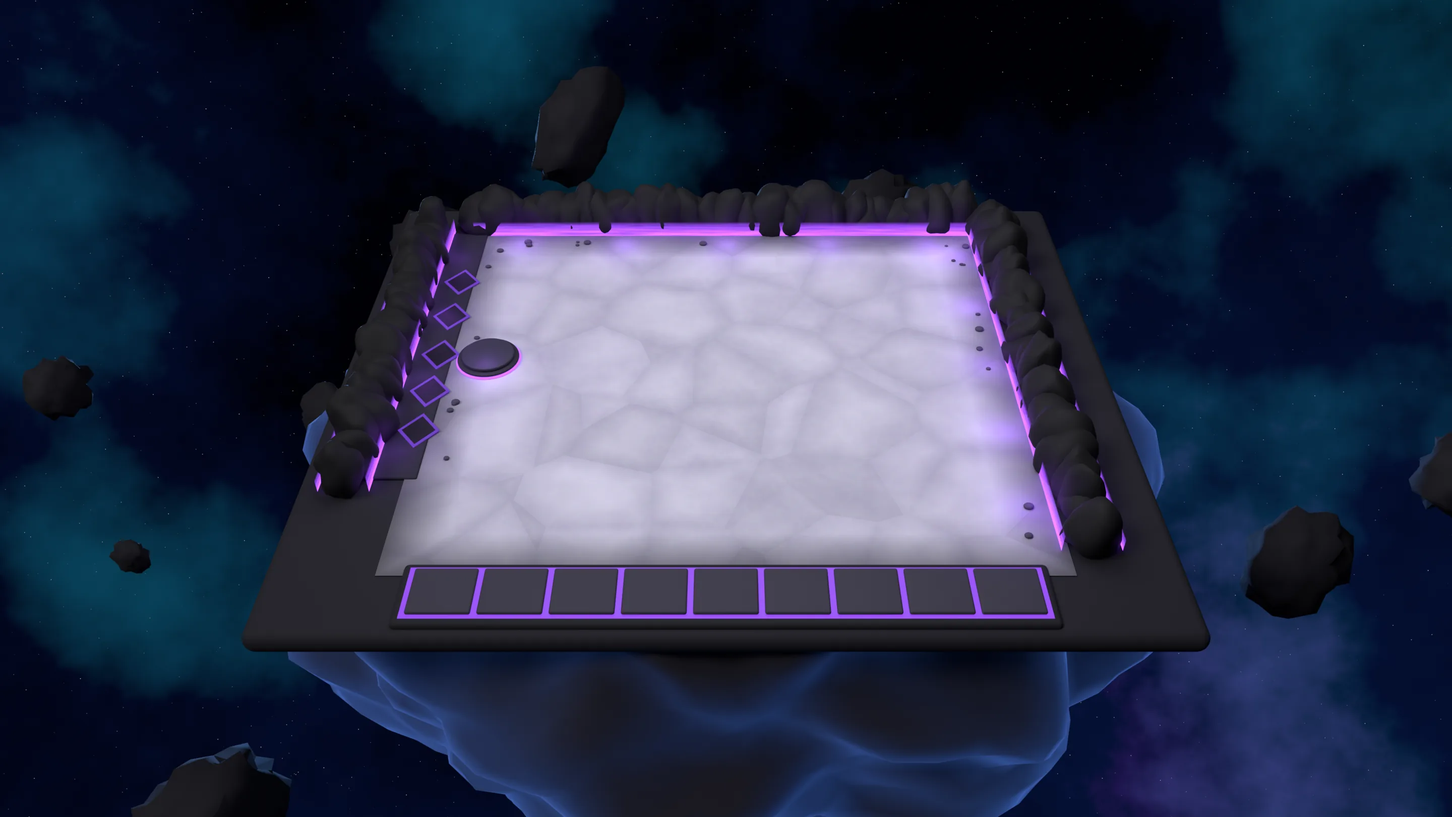
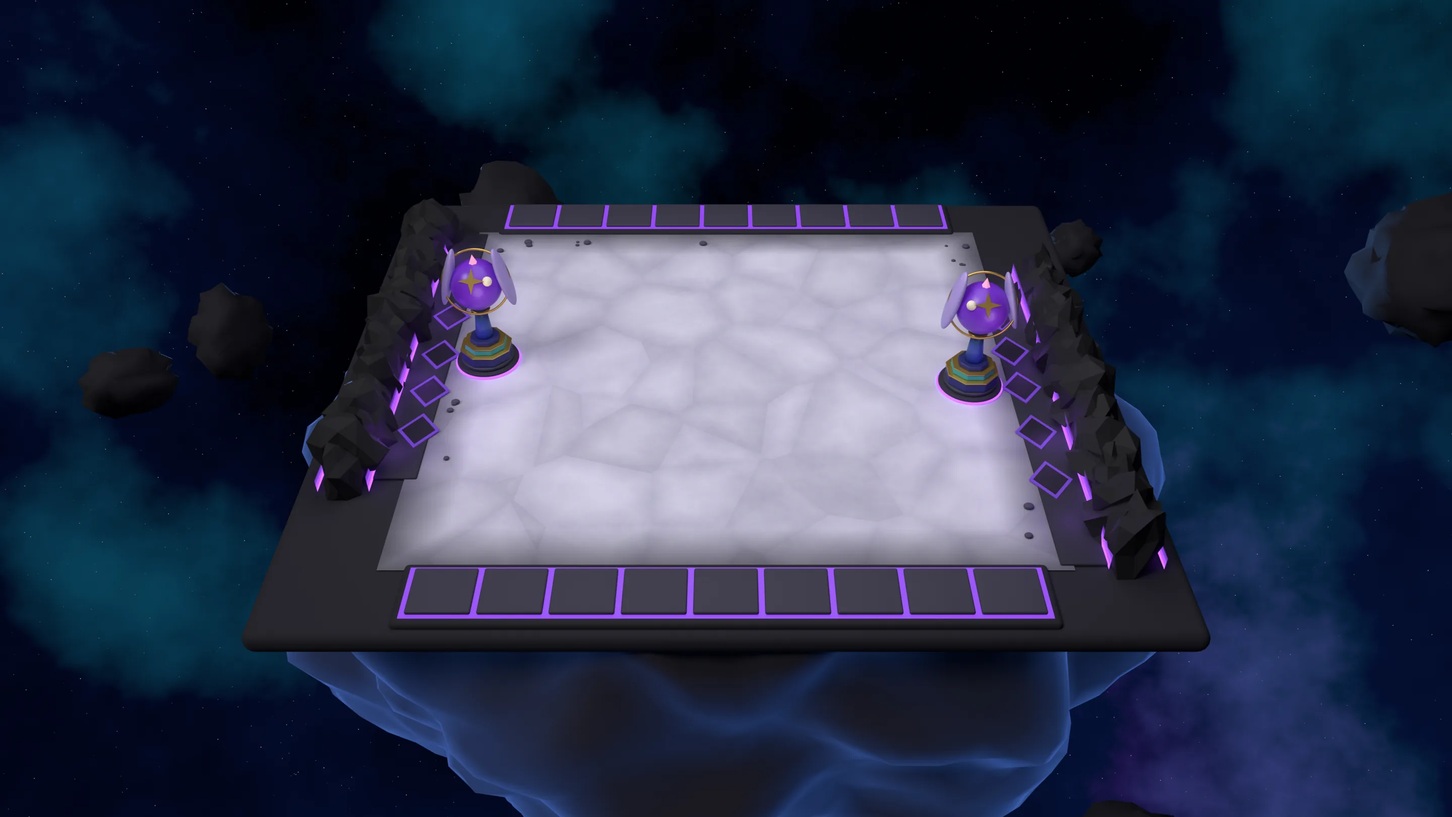
Coliseo en espejo: banca y rombos del rival (con su banca y sus cristales de intereses en combate), trofeos modelados en la imagen y piedras toscas

diff --git a/public/game.js b/public/game.js
@@ -1664,9 +1664,13 @@ function randomCode(){ const a='abcdefghjkmnpqrstuvwxyz23456789'; let s=''; for(
 function myPeerOf(room){ const me=room.peers().find(p=>p.sameTab); return me?me.peer:''; }
 function packInst(u){ return [u.uid,u.defId,u.star,u.items,R0(u.stk.hp),R0(u.stk.ad),u.kills,u.goldGen||0,R0(u.stk.ap||0),u.mwR||0,u.tg||0]; }
 function unpackInst(a){ if(!Array.isArray(a)||!DEF[a[1]]) return null; return {uid:a[0],defId:a[1],baseId:DEF[a[1]].evoOf||a[1],star:clamp(a[2]|0,1,3),items:(a[3]||[]).filter(i=>ITEMS[i]),stk:{hp:+a[4]||0,ad:+a[5]||0,ap:+a[8]||0},kills:+a[6]||0,mwR:+a[9]||0,goldGen:Math.max(0,+a[7]||0),tg:Array.isArray(a[10])?a[10].filter(i=>ITEMS[i]).slice(0,3):undefined}; }
+// Cristales de intereses de un jugador (1 por cada 10 de oro, hasta su máximo y 5): el propio se calcula; el de los demás llega en pub.pl[i][18]
+const interestOf=p=>p.mods&&p!==G.me&&p.icn!=null&&NET.mode==='client'?p.icn:Math.min(p.mods?p.mods.maxInterest:5,5,Math.floor((p.gold||0)/10));
+// Rival del combate que se está viendo (null en salvajes): su banca y sus cristales se ven en su lado del campo
+function combatOpp(){ const me=G.me, v=G.view; if(G.phase!=='combat'||!G.round||G.round.type==='pve') return null; const o=v?v.opp:G.players.find(p=>p!==me&&G.myOpp&&G.myOpp.replace(' (fantasma)','')===p.name); return o&&o!==me?o:null; }
 function makePub(){
  return {ph:G.phase,ri:G.roundIdx,tl:isFinite(G.timer)?Math.max(0,Math.ceil(G.timer)):-1,sp:G.speed,at:G.augTiers,ov:G.over?1:0,dif:G.diff,
-   pl:G.players.map(p=>[p.id,p.name,p.emoji,R0(p.hp),p.level,p.streak,p.alive?1:0,p.place,p.peer||'',0,p.ready?1:0,boardUnits(p).length,p.tr||'',p.lastUp||0,p.tac,(p.tacForm||['','']).join(','),p.tp||0,p.tn||0]),
+   pl:G.players.map(p=>[p.id,p.name,p.emoji,R0(p.hp),p.level,p.streak,p.alive?1:0,p.place,p.peer||'',0,p.ready?1:0,boardUnits(p).length,p.tr||'',p.lastUp||0,p.tac,(p.tacForm||['','']).join(','),p.tp||0,p.tn||0,interestOf(p)]),
    // Tableros y banquillos de todos, para poder mirarlos fuera del combate
    bd:G.players.map(p=>[Object.entries(p.board).map(([k,u])=>[k,u.defId,u.star,u.items]),p.bench.map(u=>u?[u.defId,u.star,u.items]:0),p.items.slice(0,MAX_ITEMS_BENCH),p.augments])};
 }
@@ -1816,9 +1820,11 @@ function applyPub(d){
  G.timer=d.tl>=0?d.tl:Infinity; G.speed=[1,2,4].includes(d.sp)?d.sp:1; if(Array.isArray(d.at)) G.augTiers=d.at; G.diff=d.dif||'normal';
  const list=[];
  for(const r of d.pl.slice(0,8)){
-   const [id,name,emoji,hp,level,streak,alive,place,peer,bot,ready,bn,tr,up,tac,tf,tp,tn]=r;
+   const [id,name,emoji,hp,level,streak,alive,place,peer,bot,ready,bn,tr,up,tac,tf,tp,tn,icn]=r;
+   if(Number.isFinite(+icn)) r.icn=clamp(+icn|0,0,5);
    const p=peer&&peer===NET.myPeer?G.me:(G.players.find(x=>x.id===id&&x!==G.me)||makePlayer(id,'',!!bot,''));
    Object.assign(p,{id,name:String(name).slice(0,20),emoji:String(emoji).slice(0,4),tr:TRAINER_BY[tr]?tr:'',hp:+hp,level:+level,streak:+streak,alive:!!alive,place:+place,peer:String(peer||''),isBot:!!bot,ready:!!ready,boardN:+bn||0,lastUp:Array.isArray(up)&&up.length===3?up.map(Number):null,tac:TACS[tac]?tac:p.tac,tacForm:String(tf||',').split(',').slice(0,2).map(k=>DEF[k]?k:''),tp:Array.isArray(tp)&&tp.length===3&&tp.every(Number.isFinite)?tp:null,tn:(+tn|0)%1000});
+   if(r.icn!=null&&p!==G.me) p.icn=r.icn;
    const bd=Array.isArray(d.bd)?d.bd[list.length]:null;
    if(p!==G.me&&Array.isArray(bd)){ unpackBoard(p,bd); if(Array.isArray(bd[2])) p.items=bd[2].filter(k=>ITEMS[k]).slice(0,MAX_ITEMS_BENCH); if(Array.isArray(bd[3])) p.augments=bd[3].filter(a=>AUG_BY[a]); }
    list.push(p);
@@ -2811,6 +2817,8 @@ function sceneActors(){
  else { tacOthers=[]; const C=G.carousel; for(const p of C.order){ const a=C.av[p.id]; if(!a||a.x===null) continue; const [vx,vy]=carPos(p.id,...carV(a.x,a.y)); A.push({key:'tac:'+p.id,tac:true,hold:.45,dex:tacDex(p),star:tacStage(p)+1,x:vx,y:vy+geo.R*.35,face:Math.PI,ring:p===me?'#4c8dff':a.rel&&!a.done?'#3fd27a':'#8a93ad',scale:.62,alpha:!a.rel&&!a.done?.55:1,hud:{}}); } }
  const benchOf=inCombat||inCar?me:viewedPlayer();
  (inCar?[]:benchOf.bench).forEach((u,i)=>{ if(!u||(drag&&drag.moved&&drag.u===u)) return; const [x,y]=benchXY(i), d=DEF[u.defId]; A.push({key:u,u,loc:{i},star:d.anvil?0:u.star,still:true,dex:dexOf(d,u.star),x,y,face:0,ring:COST_HEX[d.cost-1],sel:selected===u,scale:unitScale(d,u.star)*.9,hud:{items:u.items,star:d.anvil?0:u.star}}); });
+ // En combate, la banca del rival en sus losas (reflejo de la tuya respecto al centro del campo): se ve qué tiene guardado
+ const opp=inCombat&&combatOpp(); if(opp){ const cy2=cellXY(0,0)[1]+cellXY(0,7)[1]; (opp.bench||[]).forEach((u,i)=>{ if(!u||!DEF[u.defId]) return; const [x,y]=benchXY(i), d=DEF[u.defId]; A.push({key:'ob'+opp.id+':'+i+':'+u.defId+':'+u.star,still:true,dex:dexOf(d,u.star),x:geo.W-x,y:cy2-y,face:0,ring:COST_HEX[d.cost-1],scale:unitScale(d,u.star)*.9,hud:{items:u.items,star:d.anvil?0:u.star}}); }); }
  if(drag&&drag.moved){ const d=DEF[drag.u.defId]; A.push({key:drag.u,dex:dexOf(d,drag.u.star),x:drag.x,y:drag.y,face:drag.loc&&drag.loc.i!==undefined?0:Math.PI,drag:true,alpha:.9,ring:'#ffffff',scale:unitScale(d,drag.u.star),hud:{star:drag.u.star}}); }
  return A;
 }
@@ -2829,7 +2837,7 @@ function draw(){
  const pads=inCar?(()=>{ const {cx,cy,rr}=carGeo(), C=G.carousel; return C.order.map((p,idx)=>{ const a=C.av[p.id]||{}, an=carAng(idx,C.order.length), [px,py]=carV(cx+Math.cos(an)*rr*1.12,cy+Math.sin(an)*rr*1.12); return {id:p.id,x:px,y:py+geo.R*.35,dim:!!(a.rel||a.done)}; }); })():[];
  const links=[]; if(sceneLinks.length>1){ const rest=sceneLinks.slice(1); let cur=sceneLinks[0]; while(rest.length){ let bi=0,bd=1e9; rest.forEach((q,i)=>{ const d=Math.hypot(q[0]-cur[0],q[1]-cur[1]); if(d<bd){bd=d;bi=i;} }); const nx=rest.splice(bi,1)[0]; links.push([cur[0],cur[1],nx[0],nx[1]]); cur=nx; } }
  B3.render({arena:playing?bgKind():'glade',car:inCar?carGeo():null,pads,links,actors:A,bubbles,orbs:playing?orbList():[],totem:playing&&G.phase!=='carousel'?{x:geo.ox-geo.R*.35,y:cellXY(0,4)[1]-geo.R*.75}:null,
-   floorCount:playing&&!inCar?floorCountSpec():null,pandora:playing&&!inCar&&tP&&tP.mods&&tP.mods.pandoraBench?[BENCH-3,BENCH-2,BENCH-1]:null,interest:playing&&G.phase!=='carousel'?{x:geo.ox-geo.R*.55,y:cellXY(0,7)[1]-geo.R*.2,dy:-geo.R*.85,n:Math.min(tP.mods.maxInterest,5,Math.floor(tP.gold/10))}:null,fx:inCombat?viewCombat().fx:[],cellPx:vXY,unitPx:unitXY,cells:{drop:dragBoard,hover:cell&&cell[1]>=4?cell[1]*7+cell[0]:-1},benchHover:bh});
+   floorCount:playing&&!inCar?floorCountSpec():null,pandora:playing&&!inCar&&tP&&tP.mods&&tP.mods.pandoraBench?[BENCH-3,BENCH-2,BENCH-1]:null,interest:playing&&G.phase!=='carousel'?{x:geo.ox-geo.R*.55,y:cellXY(0,7)[1]-geo.R*.2,dy:-geo.R*.85,n2:(()=>{ const o=inCombat&&combatOpp(); return o?interestOf(o):0; })(),n:Math.min(tP.mods.maxInterest,5,Math.floor(tP.gold/10))}:null,fx:inCombat?viewCombat().fx:[],cellPx:vXY,unitPx:unitXY,cells:{drop:dragBoard,hover:cell&&cell[1]>=4?cell[1]*7+cell[0]:-1},benchHover:bh});
  hudActors=A; hudItems=[];
  if(!playing) return;
  if(inCar) drawCarouselHud(); else { drawBoardTrainers(); drawTotemIcons(); }

diff --git a/public/board3d.js b/public/board3d.js
@@ -162,7 +162,7 @@ const flatSeen=new Set(); function flatFail(e){ const k=String(e&&e.message||e);
 // «coliseo» es la arena de baldosas con piedras negras y brillo morado renderizada en Blender con la cámara del juego (arena-coliseo.py de la skill de recursos)
 const FLAT_SETS={
  rio:{dir:'arena/',w:1428,h:1080,back:[[424,272],[969,273]],bench:[353,1034.8,585],holes:[[397,315],[387,347],[377,382],[367,415],[357,450]],totem:{row:3,dx:1.3,dy:.25},bg:'radial-gradient(circle at 50% 40%,#5a5d63,#2e3036)'},
- coliseo:{dir:'arena/coliseo/',w:2880,h:1620,back:[[968,472.4],[1912,472.4]],bench:[805.6,2074.4,1168.8],holes:[[917,562.1],[896.2,630.2],[874.7,705.8],[853.1,778.2],[831,856.2]],totem:{row:3,dx:1.3,dy:.25},totemY:.22,bg:'#000'},
+ coliseo:{dir:'arena/coliseo/',w:2880,h:1620,back:[[968,472.4],[1912,472.4]],bench:[805.6,2074.4,1168.8],holes:[[917,562.1],[896.2,630.2],[874.7,705.8],[853.1,778.2],[831,856.2]],holes2:[[2083.3,953.9],[2054.2,859.3],[2025.2,770.9],[2002.7,699.1],[1980.9,632.6]],totem:{row:3,dx:1.3,dy:.25},totemY:.22,totemBaked:true,bg:'#000'},
 };
 const FLAT_IMG=FLAT_SETS.coliseo; // totem: junto al borde izquierdo del tablero, a la altura de la fila `row`, `dx` radios de casilla hacia fuera y `dy` hacia abajo
 // Carrusel: plataforma Poké Ball sobre suelo rojo, renderizada en Blender con la misma perspectiva que la cámara del carrusel (carrusel-pokeball.py de la skill de recursos);
@@ -919,18 +919,19 @@ function buildProps(){
 }
 function stepProps(F,now){
  if(!totem) buildProps();
- const T=F.totem; totem.visible=!!T; if(T){ const G=board.G, tt=FLAT_IMG.totem, p=W3(G.ox+G.hw*(.5*(tt.row&1))+G.hw/2-tt.dx*G.R,G.pad+G.R+tt.row*1.5*G.R+tt.dy*G.R); totem.position.set(p.x,FLAT_IMG.totemY||0,p.z); } // la ball se queda quieta
+ const T=F.totem; totem.visible=!!T; if(T){ const G=board.G, tt=FLAT_IMG.totem, p=W3(G.ox+G.hw*(.5*(tt.row&1))+G.hw/2-tt.dx*G.R,G.pad+G.R+tt.row*1.5*G.R+tt.dy*G.R); totem.position.set(p.x,FLAT_IMG.totemY||0,p.z); totem.children[0].visible=!FLAT_IMG.totemBaked; } // con el trofeo dentro de la imagen, el sprite no se pinta (pero su posición sigue dando dónde van los aumentos) // la ball se queda quieta
  const I=F.interest, flat=!!flatH;
  if(!I||!flat){ for(const c of crystals){ c.visible=false; if(c.userData.v!=null){ c.userData.v=0; c.userData.want=false; c.userData.from=null; } } return; } // carrusel y menú: sin intereses
  // Solo se ven los cristales ganados: cada uno brota de su hueco (sube, crece y se enciende en 0,7 s) al alcanzar ese interés y se hunde si se pierde
  crystals.forEach((c,j)=>{ const slot=j<5; const U=c.userData; if(U.v==null){ U.v=0; U.want=false; }
    // se encienden desde el banquillo hacia el fondo
-   const i=4-j, want=slot&&i<I.n;
+   // los 5 primeros son los tuyos (rombos de la izquierda); los otros 5, los del rival en combate (rombos de la derecha, FLAT_IMG.holes2)
+   const h2=!slot&&FLAT_IMG.holes2, i=slot?4-j:4-(j-5), want=slot?i<I.n:!!h2&&i<(I.n2||0);
    if(want!==U.want){ U.want=want; U.t0=now; U.from=U.v; }
    const k=Math.min(1,(now-(U.t0||0))/(want?.7:.35)); U.v=U.from==null?(want?1:0):U.from+((want?1:0)-U.from)*k;
    c.visible=U.v>0; if(!c.visible) return;
    const e=want?1-Math.pow(1-U.v,3):U.v*U.v, bob=0, rise=(1-e)*.5; // quietos una vez aparecidos: solo se anima la aparición (ease-out al salir, ease-in al hundirse)
-   { const w=flatWorld(FLAT_IMG.holes[j],0); c.position.set(w.x,.52+bob-rise,w.z); } // la punta de abajo (0,5 por debajo del centro) queda en el hueco pintado
+   { const w=flatWorld(slot?FLAT_IMG.holes[j]:FLAT_IMG.holes2[j-5],0); c.position.set(w.x,.52+bob-rise,w.z); } // la punta de abajo (0,5 por debajo del centro) queda en el hueco pintado
    const m=c.userData.m, flash=want&&U.v<1?1+Math.sin(U.v*Math.PI)*.9:1; c.scale.setScalar(.2+.8*e);
    m.material.color.set('#9fe8ff'); m.material.emissive.set('#2aa8ff'); m.material.emissiveIntensity=1*flash; m.material.opacity=.95*e; m.rotation.y=.6+(1-e)*4; c.userData.h.visible=true; c.userData.h.scale.setScalar(1.3*(.6+.4*e)*flash); }); // el rombo gira solo mientras brota y luego se queda quieto
 }

diff --git a/tests/e2e/partida.spec.js b/tests/e2e/partida.spec.js
@@ -256,6 +256,19 @@ test('ficha con el retrato de su forma y recetas de objetos con clic derecho', a
   await page.mouse.click(800, 300); await expect(page.locator('#recipeBox')).toHaveCount(0);
 });
 
+// Arena espejo: en un combate PvP la banca del rival se ve en sus losas y sus cristales de intereses se encienden en sus rombos (misma regla: 1 por cada 10 de oro)
+test('en combate se ven la banca y los cristales de intereses del rival', async ({ page }) => {
+  await page.evaluate(() => { G.me.gold = 55; renderUI(); });
+  await expect.poll(() => page.evaluate(() => B3.flatInfo.crys.length), { timeout: 10_000 }).toBe(5); // en planificación, solo los tuyos
+  await jumpToRound(page, 5); // 2-3: PvP
+  await page.evaluate(() => { closeModal(); G.timer = .1; });
+  await expect.poll(() => page.evaluate(() => G.phase), { timeout: 20_000 }).toBe('combat');
+  const r = await page.evaluate(async () => { const o = combatOpp(); o.gold = 38; o.bench = Array(BENCH).fill(null); o.bench[0] = makeInst('gastly'); o.bench[8] = makeInst('meowth'); G.me.gold = 55;
+    await new Promise(r => setTimeout(r, 1500)); return { cris: B3.flatInfo.crys.length, banca: sceneActors().filter(a => String(a.key).startsWith('ob' + o.id + ':')).map(a => a.x > geo.W / 2 ? 'der' : 'izq') }; });
+  expect(r.cris, 'tus 5 cristales y 3 del rival (38 de oro)').toBe(8);
+  expect(r.banca, 'la casilla 0 del rival queda a su izquierda (a tu derecha) y la 8 al otro lado').toEqual(['der', 'izq']);
+});
+
 // El carrusel espera 8 s antes de soltar a la primera pareja: tiempo para ver todos los Pokémon y objetos
 test('carrusel: la primera pareja sale a los 8 s', async ({ page }) => {
   await jumpToRound(page, 6); await expect(page.locator('#stage')).toContainText('Carrusel');

diff --git a/test/smoke.js b/test/smoke.js
@@ -251,6 +251,8 @@ ready.then(() => server.listen(0, async () => {
       const tn = nick => lastPub.pl.find(p => p[1] === nick)[17];
       assert.strictEqual(tn('Beto'), 1, 'la burla de Charmander llega a todos (y la segunda seguida se ignora)');
       assert.strictEqual(tn('Ana'), 0, 'quien no lleva Charmander no puede burlarse');
+      // Cristales de intereses de cada jugador (para encender los rombos del rival en combate): un entero de 0 a 5 en pub.pl[i][18], nunca el oro exacto
+      assert(lastPub.pl.every(p => Number.isInteger(p[18]) && p[18] >= 0 && p[18] <= 5 && p.length === 19), 'pub.pl[i][18] trae los cristales de intereses (0-5) y nada más');
       // sin partida a medias no se puede «volver»: el usuario A tiene su asiento conectado, así que rejoin le cede el asiento solo a una ventana nueva (no se prueba aquí)
     }
     // Minileyenda de B en el tablero de A: entradas inválidas (jugador inexistente, tipos raros, fuera de rango) y luego una válida

diff --git a/.claude/skills/pokemon-data-asset-pipeline/scripts/arena-coliseo.py b/.claude/skills/pokemon-data-asset-pipeline/scripts/arena-coliseo.py
@@ -20,6 +20,8 @@ FX0, FX1, FZ0, FZ1 = -6.995, 6.995, -7.285, 5.374
 BENCH_Z, BENCH_X, BENCH_DX, TOP = 6.4545, -5.7735, 1.4434, .2
 HOLES = [(-7.343, -4.915), (-7.342, -3.277), (-7.319, -1.599), (-7.312, -.117), (-7.292, 1.36)]
 MID_Z = -.93  # línea entre las filas 3 y 4 (mitad del campo)
+MIR = lambda x, z: (-x, 2 * MID_Z - z)  # reflejo respecto al centro del campo: el lado del rival
+HOLES2 = [MIR(x, z) for x, z in HOLES]
 rnd = random.Random(11)
 W = lambda x, y, z: (x, -z, y)  # mundo del juego (y arriba, z hacia la cámara) → Blender (z arriba)
 
@@ -62,8 +64,9 @@ L(tcol.outputs['Color'], mul.inputs[7])
 fine = N('ShaderNodeMix'); fine.data_type = 'RGBA'; fine.blend_type = 'OVERLAY'; fine.inputs['Factor'].default_value = .12; L(mul.outputs[2], fine.inputs[6]); L(nf.outputs['Color'], fine.inputs[7])
 L(fine.outputs[2], bs.inputs['Base Color']); bs.inputs['Roughness'].default_value = .7
 bump = N('ShaderNodeBump'); bump.inputs['Strength'].default_value = .35; bump.inputs['Distance'].default_value = .015; L(edge.outputs['Result'], bump.inputs['Height']); L(bump.outputs['Normal'], bs.inputs['Normal'])
-bpy.ops.mesh.primitive_plane_add(size=1, location=W(0, 0, (FZ0 + 5.75) / 2)); fl = bpy.context.object; fl.name = 'suelo'
-fl.scale = (FX1 - FX0 + .6, 5.75 - FZ0 + .3, 1); bpy.ops.object.transform_apply(scale=True); fl.data.materials.append(mf)
+FB0 = 2 * MID_Z - 5.75  # el suelo llega hasta la banca del rival
+bpy.ops.mesh.primitive_plane_add(size=1, location=W(0, 0, (FB0 + 5.75) / 2)); fl = bpy.context.object; fl.name = 'suelo'
+fl.scale = (FX1 - FX0 + .6, 5.75 - FB0, 1); bpy.ops.object.transform_apply(scale=True); fl.data.materials.append(mf)
 # sombra suave junto a los bordes del campo (oclusión pintada): un marco negro que se difumina hacia dentro
 M_AO = bpy.data.materials.new('oclusion'); M_AO.use_nodes = True; an = M_AO.node_tree; ab = an.nodes['Principled BSDF']; ab.inputs['Base Color'].default_value = (0, 0, 0, 1)
 ag = an.nodes.new('ShaderNodeTexCoord'); asep = an.nodes.new('ShaderNodeSeparateXYZ'); an.links.new(ag.outputs['Generated'], asep.inputs[0])
@@ -73,7 +76,7 @@ def dist_edge(c):  # 0 en el borde → 0,5 en el centro
 mx = dist_edge(asep.outputs['X']); my = dist_edge(asep.outputs['Y']); mm = an.nodes.new('ShaderNodeMath'); mm.operation = 'MINIMUM'; an.links.new(mx.outputs[0], mm.inputs[0]); an.links.new(my.outputs[0], mm.inputs[1])
 ar2 = an.nodes.new('ShaderNodeMapRange'); ar2.inputs['From Max'].default_value = .09; ar2.inputs['To Min'].default_value = .55; ar2.inputs['To Max'].default_value = 0
 an.links.new(mm.outputs[0], ar2.inputs['Value']); an.links.new(ar2.outputs['Result'], ab.inputs['Alpha'])
-bpy.ops.mesh.primitive_plane_add(size=1, location=W(0, .004, (FZ0 + 5.75) / 2)); ao = bpy.context.object; ao.scale = (FX1 - FX0 + .6, 5.75 - FZ0 + .3, 1); bpy.ops.object.transform_apply(scale=True); ao.data.materials.append(M_AO)
+bpy.ops.mesh.primitive_plane_add(size=1, location=W(0, .004, (FB0 + 5.75) / 2)); ao = bpy.context.object; ao.scale = (FX1 - FX0 + .6, 5.75 - FB0, 1); bpy.ops.object.transform_apply(scale=True); ao.data.materials.append(M_AO)
 # piedrecitas sueltas junto a los bordes, para que el campo no se vea vacío (lejos de los rombos y del centro)
 M_PEB = mat('piedrecita', '#4a4656', .8)
 for k in range(26):
@@ -94,7 +97,7 @@ g.links.new(gc.outputs['Generated'], sep.inputs[0]); g.links.new(sep.outputs['Y'
 def rock(x, z, s, h):
     bpy.ops.mesh.primitive_ico_sphere_add(subdivisions=2, radius=1, location=W(x, h * .45, z)); o = bpy.context.object
     for v in o.data.vertices: v.co *= 1 + rnd.uniform(-.3, .3); v.co.z = max(v.co.z, -.55)
-    sd = o.modifiers.new('suave', 'SUBSURF'); sd.levels = sd.render_levels = 1; bpy.ops.object.shade_smooth()
+    o.data.polygons.foreach_set('use_smooth', [False] * len(o.data.polygons))  # toscas: facetas planas
     o.scale = (s * rnd.uniform(.85, 1.15), s * rnd.uniform(.7, 1.0), h); o.rotation_euler = (rnd.uniform(-.12, .12), rnd.uniform(-.12, .12), rnd.uniform(0, math.tau))
     o.data.materials.append(M_ROCK); return o
 def flame(x0, z0, x1, z1, h=.55):
@@ -113,36 +116,39 @@ def wall(x0, z0, x1, z1, n, inner):
         t = (i + .5) / max(1, int(L / 2.5)); bpy.ops.object.light_add(type='POINT', location=W(x0 + (x1 - x0) * t + inner[0] * 1.6, .35, z0 + (z1 - z0) * t + inner[1] * 1.6))
         lt = bpy.context.object; lt.data.color = lin(hexc('#a35bff')); lt.data.energy = 35; lt.data.shadow_soft_size = .6
 RB = FZ0 - .75; RR = FX1 + .75; RL = -8.55
-wall(FX0 - .4, RB, FX1 + .4, RB, 30, (0, .62))                 # detrás
-wall(RR, RB + .4, RR, 5.2, 24, (-.62, 0))                         # derecha
-wall(RL, RB + .4, RL, 3.4, 19, (.55, 0))                           # izquierda, por fuera de la repisa de los rombos
+wall(RL, FZ0 - .3, RL, 3.4, 22, (.55, 0))                                   # izquierda, por fuera de mi repisa
+wall(-RL, MIR(0, 3.4)[1], -RL, MIR(0, FZ0 - .3)[1], 22, (-.55, 0))          # derecha, por fuera de la repisa del rival (su reflejo)
 
 # ---------- repisa izquierda con los 5 rombos (cristales de intereses) ----------
 M_LEDGE = mat('repisa', '#26252e', .8); M_SOCK = mat('rombo', '#0d0c12', .6); M_SOCKR = mat('rombo_borde', '#2f2d3a', .5, '#8a45ff', .5)
-box('repisa', -8.05, FX0 - .02, RB + .55, 3.0, -.05, .04, M_LEDGE, .04)
-for (hx, hz) in HOLES:
-    for (r, m, y) in ((.62, M_SOCKR, .045), (.5, M_SOCK, .05)):
-        bpy.ops.mesh.primitive_cylinder_add(vertices=4, radius=r, depth=.02, location=W(hx, y, hz)); o = bpy.context.object; o.data.materials.append(m)
-        bv = o.modifiers.new('bisel', 'BEVEL'); bv.width = .06; bv.segments = 4; bv.affect = 'VERTICES'  # rombos con las puntas redondeadas
-        o.scale = (.8, 1, 1)  # rombo un poco más alto que ancho (en perspectiva queda como el del modelo)
+def ledge(sign, holes):
+    z0, z1 = (RB + .55, 3.0) if sign < 0 else (MIR(0, 3.0)[1], MIR(0, RB + .55)[1])
+    box('repisa', min(sign * 8.05, sign * (FX1 + .02)), max(sign * 8.05, sign * (FX1 + .02)), z0, z1, -.05, .04, M_LEDGE, .035)
+    for (hx, hz) in holes:
+        for (r, m, y) in ((.62, M_SOCKR, .045), (.5, M_SOCK, .05)):
+            bpy.ops.mesh.primitive_cylinder_add(vertices=4, radius=r, depth=.02, location=W(hx, y, hz)); o = bpy.context.object; o.data.materials.append(m)
+            bv = o.modifiers.new('bisel', 'BEVEL'); bv.width = .06; bv.segments = 4; bv.affect = 'VERTICES'  # rombos con las puntas redondeadas
+            o.scale = (.8, 1, 1)  # rombo un poco más alto que ancho (en perspectiva queda como el del modelo)
+ledge(-1, HOLES); ledge(1, HOLES2)
 
 # ---------- banca (9 losas) sobre una base de piedra negra; sin piedras levantadas delante ----------
 M_BASE = mat('base_banca', '#1d1c23', .85); M_SLAB = mat('losa', '#3a3846', .75); M_SEAM = mat('junta', '#120f18', .5, '#9b4dff', .9)
-box('base_banca', BENCH_X - .95, -BENCH_X + .95, 5.62, 7.3, -.3, .1, M_BASE, .12)
-box('junta_banca', BENCH_X - .78, -BENCH_X + .78, 5.78, 7.13, .1, .115, M_SEAM)
-for i in range(9):
-    x = BENCH_X + BENCH_DX * i; box(f'losa{i}', x - .66, x + .66, BENCH_Z - .6, BENCH_Z + .6, .1, TOP, M_SLAB, .05)
+for (bz, z0, z1, z2, z3) in ((BENCH_Z, 5.62, 7.3, 5.78, 7.13), (MIR(0, BENCH_Z)[1], MIR(0, 7.3)[1], MIR(0, 5.62)[1], MIR(0, 7.13)[1], MIR(0, 5.78)[1])):
+    box('base_banca', BENCH_X - .95, -BENCH_X + .95, z0, z1, -.3, .1, M_BASE, .12)
+    box('junta_banca', BENCH_X - .78, -BENCH_X + .78, z2, z3, .1, .115, M_SEAM)
+    for i in range(9):
+        x = BENCH_X + BENCH_DX * i; box(f'losa{i}', x - .66, x + .66, bz - .6, bz + .6, .1, TOP, M_SLAB, .045)
 
 # ---------- isla flotante: borde de piedra oscura redondeado y, debajo, la roca que cuelga ----------
 M_RIM = mat('borde', '#1f1e26', .85)
-box('borde', -9.7, 9.7, RB - 1.05, 7.55, -.6, -.03, M_RIM, .5)  # justo por debajo del suelo (si coinciden, el borde lo tapa)
+box('borde', -9.7, 9.7, MIR(0, 7.55)[1], 7.55, -.6, -.03, M_RIM, .5)  # justo por debajo del suelo (si coinciden, el borde lo tapa)
 M_ISLA = mat('isla', '#1c1924', .9)
 # contorno azulado según el ángulo (Fresnel): la roca de debajo se lee contra el espacio
 in_ = M_ISLA.node_tree; ib = in_.nodes['Principled BSDF']; lw = in_.nodes.new('ShaderNodeLayerWeight'); lw.inputs['Blend'].default_value = .18; ir = in_.nodes.new('ShaderNodeMath'); ir.operation = 'MULTIPLY'; ir.inputs[1].default_value = .5
 in_.links.new(lw.outputs['Facing'], ir.inputs[0]); ib.inputs['Emission Color'].default_value = (*lin(hexc('#5b8cff')), 1); in_.links.new(ir.outputs[0], ib.inputs['Emission Strength'])
 # roca que cuelga bajo la arena: esfera achatada con el centro bajo, cortada arriba (queda escondida bajo el borde) y más ancha por debajo, con relieve
 from mathutils import noise
-bpy.ops.mesh.primitive_ico_sphere_add(subdivisions=5, radius=1, location=W(0, -4.6, -1.0)); isla = bpy.context.object; isla.name = 'isla'
+bpy.ops.mesh.primitive_ico_sphere_add(subdivisions=5, radius=1, location=W(0, -4.6, MID_Z)); isla = bpy.context.object; isla.name = 'isla'
 for v in isla.data.vertices:
     c = v.co
     if c.z > .61: c.z = .61
@@ -159,13 +165,47 @@ for k in range(22):
     for v in o.data.vertices: v.co *= 1 + rnd.uniform(-.18, .18)
     o.scale = (1, rnd.uniform(.7, 1.1), rnd.uniform(.6, .9)); o.rotation_euler = (rnd.uniform(0, 3), rnd.uniform(0, 3), rnd.uniform(0, 3)); o.data.materials.append(M_FL); bpy.ops.object.shade_smooth()
 
-# ---------- pedestal del trofeo (el trofeo del juego se apoya en su cara: FLAT_SETS.coliseo.totemY = TH) ----------
+# ---------- pedestales con el trofeo modelado encima (ya no es una imagen aparte): el mío a la izquierda y el del rival, reflejado, a la derecha ----------
+# Mismo diseño que img/trofeo.webp: base octogonal azul marino con ribete dorado, escalón turquesa, tallo azul, anillo dorado,
+# esfera morada con la estrella dorada, una luna, un cristal rosa arriba, un aro dorado inclinado y dos alas lavanda
 TX, TZT, TH = -6.063, -1.426, .22
 M_PED = mat('pedestal', '#2a2833', .7); M_PEDT = mat('pedestal_cara', '#3a3747', .6); M_PEDG = mat('pedestal_brillo', '#120f18', .5, '#9b4dff', 2.5)
-for (r, y0, y1, m) in ((.82, 0, .06, M_PEDG), (.78, 0, .12, M_PED), (.66, .12, TH, M_PEDT)):
-    bpy.ops.mesh.primitive_cylinder_add(vertices=64, radius=r, depth=y1 - y0, location=W(TX, (y0 + y1) / 2, TZT)); o = bpy.context.object; o.data.materials.append(m)
-    bv = o.modifiers.new('bisel', 'BEVEL'); bv.width = .03; bv.segments = 4; bpy.ops.object.shade_smooth()
-bpy.ops.object.light_add(type='POINT', location=W(TX, .5, TZT + .4)); lt = bpy.context.object; lt.data.color = lin(hexc('#b07bff')); lt.data.energy = 25; lt.data.shadow_soft_size = .5
+M_NAVY = mat('trofeo_base', '#2b2f6e', .55); M_TEAL = mat('trofeo_turquesa', '#3aa59e', .5); M_GOLD = mat('trofeo_oro', '#d9b25a', .3); M_GOLD.node_tree.nodes['Principled BSDF'].inputs['Metallic'].default_value = .8
+M_STEM = mat('trofeo_tallo', '#3c5aa6', .45); M_ORB = mat('trofeo_esfera', '#6b2fb2', .35, '#4a1a8c', .4); M_MOON = mat('trofeo_luna', '#efe6c8', .6)
+M_GEM = mat('trofeo_gema', '#f4a6c0', .25, '#ff9cc4', .6); M_WING = mat('trofeo_ala', '#b9a6e6', .4); M_WING.node_tree.nodes['Principled BSDF'].inputs['Alpha'].default_value = .82
+def cyl(r0, r1, y0, y1, m, cx, cz, n=8, rot=math.pi / 8, bev=.02):
+    bpy.ops.mesh.primitive_cone_add(vertices=n, radius1=r0, radius2=r1, depth=y1 - y0, location=W(cx, (y0 + y1) / 2, cz)); o = bpy.context.object; o.rotation_euler.z = rot; o.data.materials.append(m)
+    if bev: bv = o.modifiers.new('bisel', 'BEVEL'); bv.width = bev; bv.segments = 3
+    bpy.ops.object.shade_smooth() if n > 12 else None; return o
+def trofeo(cx, cz, face):
+    # pedestal de piedra con el aro morado
+    for (r, y0, y1, m) in ((.82, 0, .06, M_PEDG), (.78, 0, .12, M_PED), (.66, .12, TH, M_PEDT)):
+        cyl(r, r, y0, y1, m, cx, cz, n=64, rot=0, bev=.03)
+    y = TH; antes = set(bpy.data.objects)
+    cyl(.5, .5, y, y + .2, M_NAVY, cx, cz); cyl(.51, .51, y + .2, y + .225, M_GOLD, cx, cz, bev=0)          # base octogonal y ribete
+    cyl(.42, .4, y + .225, y + .34, M_TEAL, cx, cz); cyl(.41, .41, y + .34, y + .355, M_GOLD, cx, cz, bev=0) # escalón turquesa
+    cyl(.3, .29, y + .355, y + .45, M_NAVY, cx, cz)
+    cyl(.17, .11, y + .45, y + 1.05, M_STEM, cx, cz, n=32, rot=0, bev=0)                                   # tallo
+    bpy.ops.mesh.primitive_torus_add(major_radius=.15, minor_radius=.035, location=W(cx, y + 1.06, cz)); o = bpy.context.object; o.data.materials.append(M_GOLD); bpy.ops.object.shade_smooth()
+    cyl(.12, .2, y + 1.06, y + 1.2, M_STEM, cx, cz, n=32, rot=0, bev=0)
+    oy = y + 1.62; bpy.ops.mesh.primitive_uv_sphere_add(segments=48, ring_count=24, radius=.48, location=W(cx, oy, cz)); o = bpy.context.object; o.data.materials.append(M_ORB); bpy.ops.object.shade_smooth()
+    # estrella dorada de 4 puntas en la cara de la esfera que mira a la cámara
+    bpy.ops.mesh.primitive_circle_add(vertices=8, radius=.24, fill_type='NGON', location=W(cx, oy + .31, cz + .37)); st = bpy.context.object  # en la cara de la esfera que ve la cámara (elevación 40°)
+    for i, v in enumerate(st.data.vertices): v.co *= 1.0 if i % 2 == 0 else .3
+    st.rotation_euler = (math.radians(50), 0, 0); st.data.materials.append(M_GOLD); so = st.modifiers.new('grosor', 'SOLIDIFY'); so.thickness = .03
+    bpy.ops.mesh.primitive_uv_sphere_add(segments=24, ring_count=12, radius=.09, location=W(cx + .28 * face, oy + .26, cz + .3)); o = bpy.context.object; o.data.materials.append(M_MOON); bpy.ops.object.shade_smooth()
+    bpy.ops.mesh.primitive_cone_add(vertices=6, radius1=.08, radius2=0, depth=.18, location=W(cx, oy + .56, cz)); o = bpy.context.object; o.data.materials.append(M_GEM)
+    bpy.ops.mesh.primitive_cone_add(vertices=6, radius1=.08, radius2=0, depth=.1, location=W(cx, oy + .42, cz)); o = bpy.context.object; o.rotation_euler.x = math.pi; o.data.materials.append(M_GEM)
+    bpy.ops.mesh.primitive_torus_add(major_radius=.62, minor_radius=.022, major_segments=96, location=W(cx, oy + .05, cz)); o = bpy.context.object; o.rotation_euler = (math.radians(70), math.radians(18 * face), 0); o.data.materials.append(M_GOLD); bpy.ops.object.shade_smooth()
+    for sx in (-1, 1):  # alas: pétalos curvos a los lados de la esfera
+        bpy.ops.mesh.primitive_uv_sphere_add(segments=32, ring_count=16, radius=1, location=W(cx + sx * .52, oy + .12, cz - .05)); w = bpy.context.object
+        w.scale = (.1, .26, .62); w.rotation_euler = (0, math.radians(-14 * sx), 0); w.data.materials.append(M_WING); bpy.ops.object.shade_smooth()
+    # el trofeo, ×1,3 desde el centro de su base (visto desde arriba lo vertical se acorta)
+    piv = Vector(W(cx, TH, cz))
+    for o in set(bpy.data.objects) - antes: o.location = piv + (o.location - piv) * 1.3; o.scale = o.scale * 1.3
+    bpy.ops.object.light_add(type='POINT', location=W(cx, .5, cz + .4)); lt = bpy.context.object; lt.data.color = lin(hexc('#b07bff')); lt.data.energy = 25; lt.data.shadow_soft_size = .5
+    bpy.ops.object.light_add(type='POINT', location=W(cx + .3, oy + .6, cz + 1.2)); lt = bpy.context.object; lt.data.color = lin(hexc('#fff2dc')); lt.data.energy = 18; lt.data.shadow_soft_size = .4  # luz de relleno: se ve el trofeo
+trofeo(TX, TZT, 1); trofeo(*MIR(TX, TZT), -1)
 
 # ---------- luz: sin lámpara visible; luz suave de arriba y algo de ambiente frío ----------
 wd = bpy.data.worlds.new('espacio'); sc.world = wd; wd.use_nodes = True; wn = wd.node_tree; bgn = wn.nodes['Background']; WN = wn.nodes.new; WL = wn.links.new
@@ -202,6 +242,6 @@ sc.render.engine = 'CYCLES'; sc.cycles.samples = SAMPLES; sc.cycles.use_denoisin
 sc.view_settings.view_transform = 'Standard'; sc.render.image_settings.file_format = 'PNG'; sc.render.filepath = OUT
 bpy.context.view_layer.update()
 px = lambda x, y, z: (lambda v: [round(v.x * WR, 1), round((1 - v.y) * HR, 1)])(world_to_camera_view(sc, cam, Vector(W(x, y, z))))
-out = {'w': WR, 'h': HR, 'back': [px(FX0, 0, FZ0), px(FX1, 0, FZ0)], 'bench': [px(BENCH_X + BENCH_DX * i, TOP, BENCH_Z) for i in range(9)], 'holes': [px(x, 0, z) for x, z in HOLES]}
+out = {'w': WR, 'h': HR, 'back': [px(FX0, 0, FZ0), px(FX1, 0, FZ0)], 'bench': [px(BENCH_X + BENCH_DX * i, TOP, BENCH_Z) for i in range(9)], 'holes': [px(x, 0, z) for x, z in HOLES], 'holes2': [px(x, 0, z) for x, z in HOLES2]}
 json.dump(out, open(bpy.path.abspath(OUT).rsplit('.', 1)[0] + '.json', 'w'))
 bpy.ops.render.render(write_still=True); print('PUNTOS', json.dumps(out))

diff --git a/CLAUDE.md b/CLAUDE.md
@@ -175,7 +175,7 @@ El detalle, con los nombres de las funciones, está en la skill `autochess-syste
 - Sonidos: los propios se sintetizan con WebAudio en `Music` (`hurry`, `xp`, `drop` y `evolve` para las evoluciones de fichas y minileyendas); los grabados se cargan en caliente con `Music.sample`: gritos al comprar el primer ejemplar (Showdown `audio/cries/<nombre>.mp3`, con PokeAPI/cries de reserva) y la Poké Ball de PokeMiners/pogo_assets (`SFX`).
 - Rendimiento del 3D: los Pokémon no proyectan sombra real (llevan la sombra suave `blob`); la sombra del escenario es estática (`shadowMap.autoUpdate=false`, se rehace con `needsUpdate` al cambiar de arena, encuadre o calidad); la resolución máxima es 1,5 píxeles por píxel CSS; three.js se carga minificado; `B3.dropQueue()` (en `newGame`) descarta los modelos del menú que aún esperaban. `bakeStatic` junta lo estático de cada arena en una sola malla (lo animado lleva `userData.dyn`); `B3.info` da llamadas de dibujo, triángulos y ms por parte. Las fichas quietas (`still`) no giran y un salto grande cuenta como teletransporte. En combate, `unitXY` interpola con `drawSub` (solo dibujo; no toca la simulación).
 - Sinergias en planificación: `synFx` (partículas por tipo y anillo por clase; el Guardián ya no lleva un escudo fijo: al colocar una ficha que comparte la sinergia sale un escudo de cristal translúcido —se ve la ficha a través, sin Poké Ball— que flota y se desvanece en 1,7 s, `guardShield`; el **Coloso** suelta igual un campo de fuerza esférico alrededor de la ficha, del tamaño de su modelo, `colossusBubble`; las dos son imágenes propias y ligeras, `public/img/fx/escudo.webp` (17 KB) y `burbuja.webp` (13 KB), dibujadas con `efectos-sinergia.js` de la skill de recursos, un sprite cada una; `B3.fxSyn` las cuenta para las pruebas) y `stepLinks` (bandas entre los Coloso) en `board3d.js`; los datos salen de `activeTraits` y `sceneLinks` en `game.js`.
-- **Escenario «coliseo»** (el que se usa ahora; `FLAT_SETS.coliseo` en `board3d.js`, archivos en `public/arena/coliseo/`): una sola imagen (2880×1620, 80 KB; 34 KB la versión 1×) renderizada en Blender con la cámara del tablero (`arena-coliseo.py` de la skill de recursos: elevación 40°, distancia 28,5, fov 30° y encuadre ×1,3) en las coordenadas del mundo del juego: suelo limpio de piedra clara con losas irregulares de bordes suaves (sin líneas ni dibujos, como el escenario de capas) y sombra suave en los bordes, piedras negras redondeadas con brillo morado detrás y a los lados, a la izquierda una repisa con los 5 rombos de los cristales de intereses, un pedestal de piedra donde se apoya el trofeo (`totemY` = 0,22: el sprite del trofeo sube a su cara), delante la banca de 9 losas de piedra oscura (sin piedras levantadas) y un borde oscuro redondeado; todo flota en el espacio (nebulosa azul con vetas moradas y turquesa y estrellas), con una roca que cuelga bajo la arena (contorno azulado por Fresnel) y rocas flotando a varias distancias. Sin vídeos ni fuegos (`capas.json` vacío). El script da los puntos de `FLAT_IMG` (`back`, `bench`, `holes`); el encaje sale casi una escala pura porque la perspectiva es la misma. El escenario de capas de antes sigue en `FLAT_SETS.rio`. El contenedor del escenario es `#flatBg`.
+- **Escenario «coliseo»** (el que se usa ahora; `FLAT_SETS.coliseo` en `board3d.js`, archivos en `public/arena/coliseo/`): una sola imagen (2880×1620, 83 KB; 35 KB la versión 1×) renderizada en Blender con la cámara del tablero (`arena-coliseo.py` de la skill de recursos: elevación 40°, distancia 28,5, fov 30° y encuadre ×1,3) en las coordenadas del mundo del juego: suelo limpio de piedra clara con losas irregulares de bordes suaves (sin líneas ni dibujos, como el escenario de capas) y sombra suave en los bordes, piedras negras con brillo morado, a la izquierda una repisa con los 5 rombos de los cristales de intereses, un pedestal de piedra donde se apoya el trofeo (`totemY` = 0,22: el sprite del trofeo sube a su cara), delante la banca de 9 losas de piedra oscura (sin piedras levantadas) y un borde oscuro redondeado; todo flota en el espacio (nebulosa azul con vetas moradas y turquesa y estrellas), con una roca que cuelga bajo la arena (contorno azulado por Fresnel) y rocas flotando a varias distancias. Sin vídeos ni fuegos (`capas.json` vacío). **Campo espejo**: la mitad del rival es el reflejo de la tuya respecto al centro del campo (`MIR` en el script): detrás, su banca de 9 losas; a la derecha, su repisa con 5 rombos; y cada uno tiene su pedestal con el **trofeo modelado dentro de la imagen** (`totemBaked`: el sprite `img/trofeo.webp` ya no se pinta, pero su posición sigue marcando dónde van los iconos de aumentos). Las piedras, toscas (facetas planas), solo quedan por fuera de las dos repisas. En un combate PvP se ven la banca del rival en sus losas (`combatOpp`, actores `ob<id>:…` en `sceneActors`, con su casilla 0 a tu derecha) y sus cristales de intereses en sus rombos (`FLAT_IMG.holes2`, cristales 5-9 en `stepProps`, `interest.n2`), con la misma regla de siempre: cada jugador manda sus cristales (0-5, nunca el oro exacto) en `pub.pl[i][18]` (`interestOf`). El script da los puntos de `FLAT_IMG` (`back`, `bench`, `holes`, `holes2`); el encaje sale casi una escala pura porque la perspectiva es la misma. El escenario de capas de antes sigue en `FLAT_SETS.rio`. El contenedor del escenario es `#flatBg`.
 - **Escenario del tablero por capas** (el único del tablero; `FLAT` en `board3d.js`; archivos en `public/arena/`, del paquete de capas `arena_tft_capas_1080` que aportó el autor del proyecto, servidos siempre por nuestro servidor): detrás del lienzo transparente va un fondo WebP a 2× sin el gris (recortado del máster 4K), tres vídeos de agua en bucle recortados con `mask-image` y cuatro fuegos por tira de sprites, con sus posiciones leídas de `capas.json`. Todo el contenedor (1428×1080) se deforma con una homografía (`matrix3d`) ajustada por mínimos cuadrados a las dos esquinas del fondo del campo y al centro de las 9 losas del banquillo (`FLAT_IMG`, `stepFlat`); `flatWorld` convierte un punto de la imagen en un punto del suelo 3D (cristales en los huecos; la torre de aumentos va aparte, junto al borde izquierdo a la altura de la fila 3, `FLAT_IMG.totem`). Los vídeos y fuegos se pausan al ocultar la pestaña o el escenario (`flatPlay`).
 - Espectador: minimapa 3×3 abajo a la derecha (`renderIslands`, transición `warp`; un clic lleva al tablero o combate de ese jugador; necesita `pointer-events:auto` porque la capa del campo completo los anula, y se oculta al acabar la partida o volver al menú); al mirar a otro, el inventario y el tótem muestran sus objetos y aumentos (`viewOwner`; viajan en `pub.bd`).
 - **Cartas de aumento** (`showAugment`, `augCardHTML`, CSS `.augCard3`): fondo negro con marco dorado propio en SVG (`public/img/aug-marco.svg`: doble marco, esquinas recortadas con Poké Balls y emblema arriba), igual para las tres rarezas; la rareza la da el icono, que es el del aumento convertido en silueta del color de su rareza (plata, oro o degradado prismático) conservando sus detalles por la luminosidad (`augSil`, en un lienzo, una vez por aumento; los de Pokémon usan su ilustración oficial de PokeAPI para que la silueta salga suave, con el sprite de respaldo). Título en serif y descripción centrada: `fitAugCard` reduce la letra hasta que caben (comprobado con los 224: título ≥ 19 px, descripción ≥ 12 px). Sin animación de apertura de Poké Ball. Sobre el trofeo (`drawTotemIcons`) cada aumento va en un recuadro negro con marco negro, como los objetos sobre un Pokémon, con la misma silueta de su carta (`augSilImg`).
